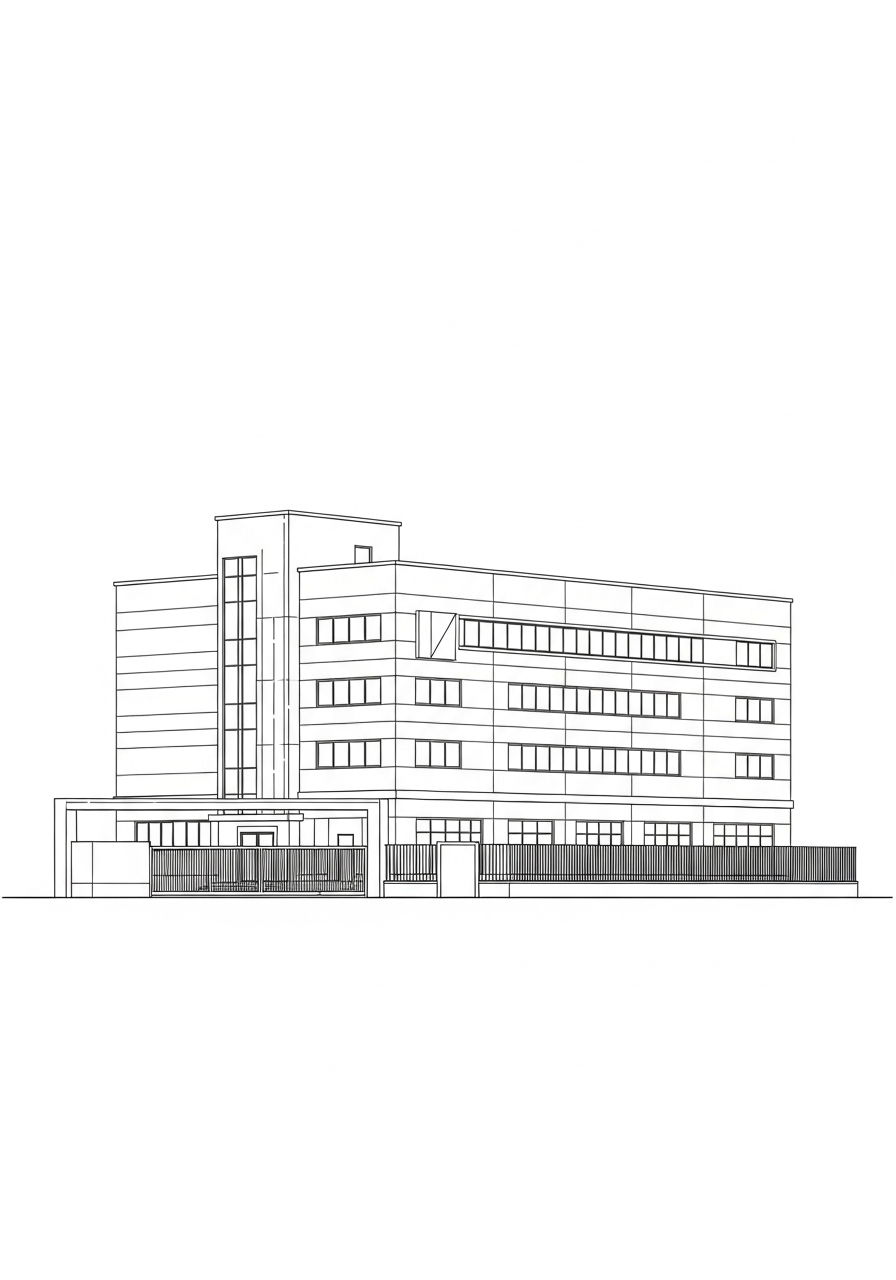
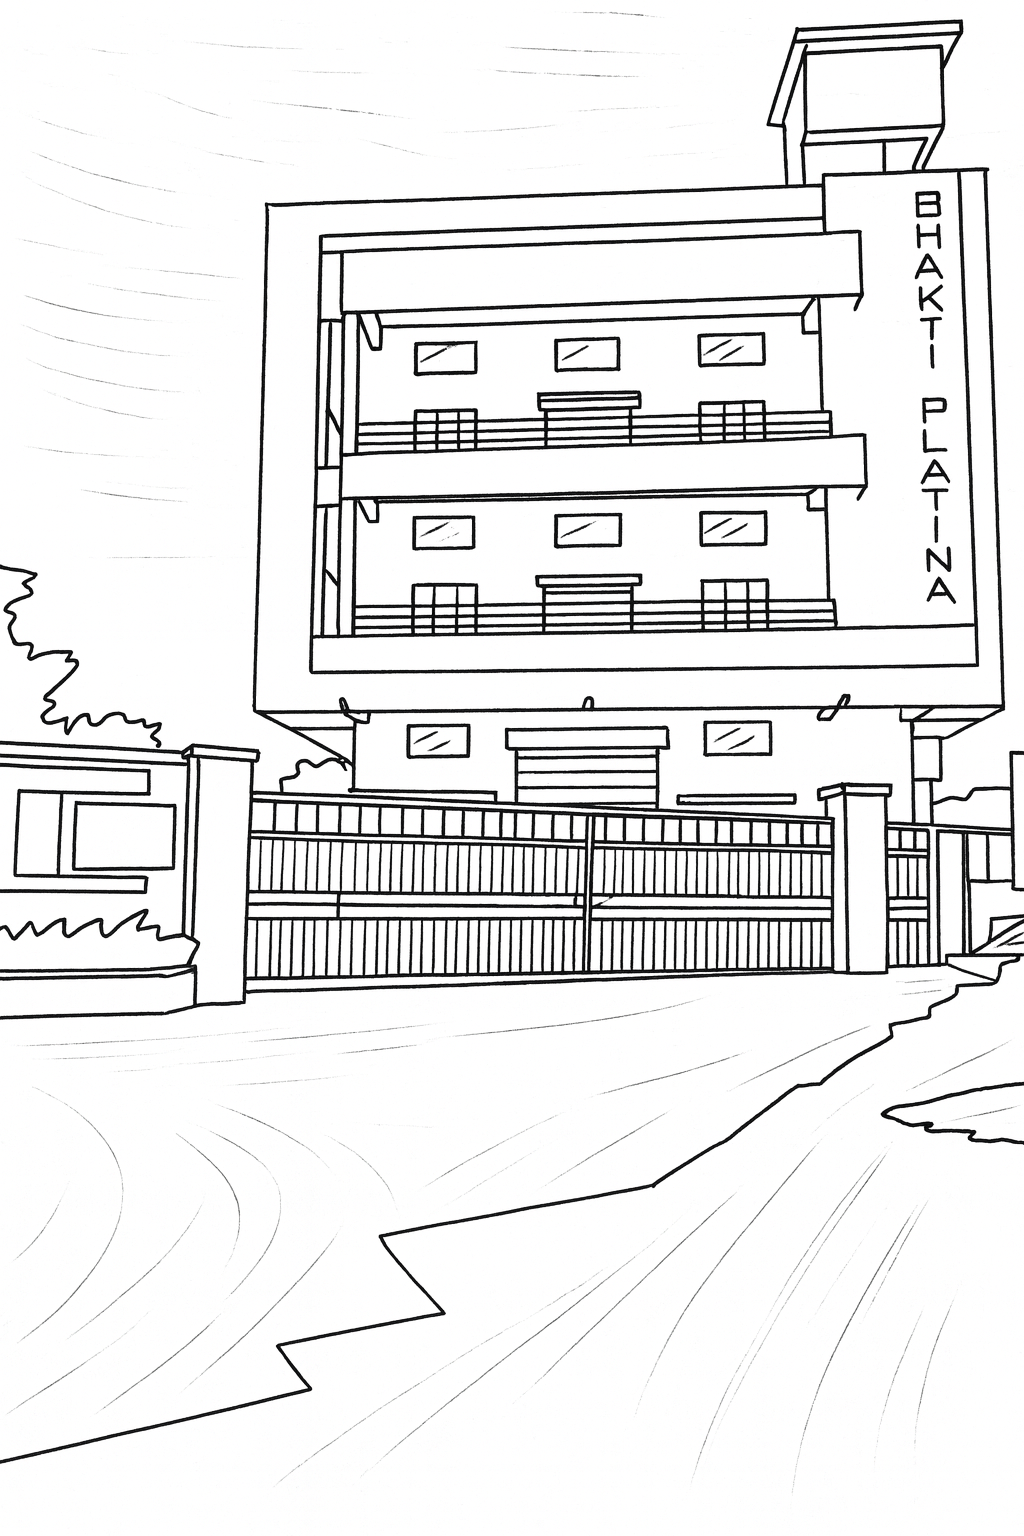
Restore original footer image and improve its visibility
Restore original footer background image and adjust styling to ensure visibility by increasing opacity and applying an invert-brightness filter.

Replit-Commit-Author: Agent
Replit-Commit-Session-Id: 5ce30ea2-1973-4259-9d1e-4e0e6e90e933
Replit-Commit-Checkpoint-Type: full_checkpoint
Replit-Commit-Event-Id: a6ea8a15-2ddc-4ca0-9270-393ee2fb5eb1
Replit-Commit-Screenshot-Url: https://storage.googleapis.com/screenshot-production-us-central1/9c5fd180-8102-4c1f-95c6-874f50399327/5ce30ea2-1973-4259-9d1e-4e0e6e90e933/jfUpob7
Replit-Helium-Checkpoint-Created: true

diff --git a/client/src/components/footer.tsx b/client/src/components/footer.tsx
@@ -12,12 +12,14 @@ export default function Footer() {
   return (
     <footer className="bg-space-900 border-t border-gray-800 py-12 relative overflow-hidden">
       <div 
-        className="absolute inset-0 opacity-[0.04] pointer-events-none"
+        className="absolute inset-0 pointer-events-none"
         style={{
           backgroundImage: 'url(/images/building-lineart.png)',
           backgroundRepeat: 'no-repeat',
           backgroundPosition: 'right bottom',
-          backgroundSize: 'auto 90%',
+          backgroundSize: 'auto 85%',
+          opacity: 0.12,
+          filter: 'invert(1) brightness(1.5)',
         }}
       />
 
